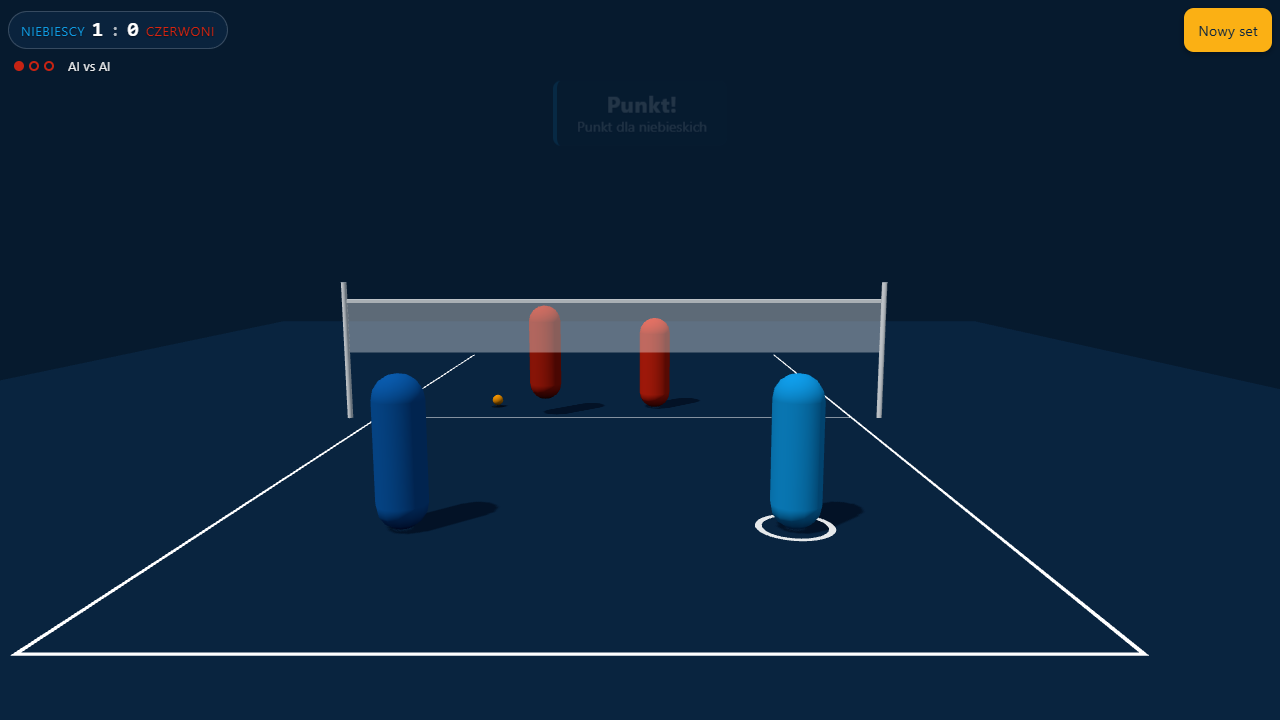
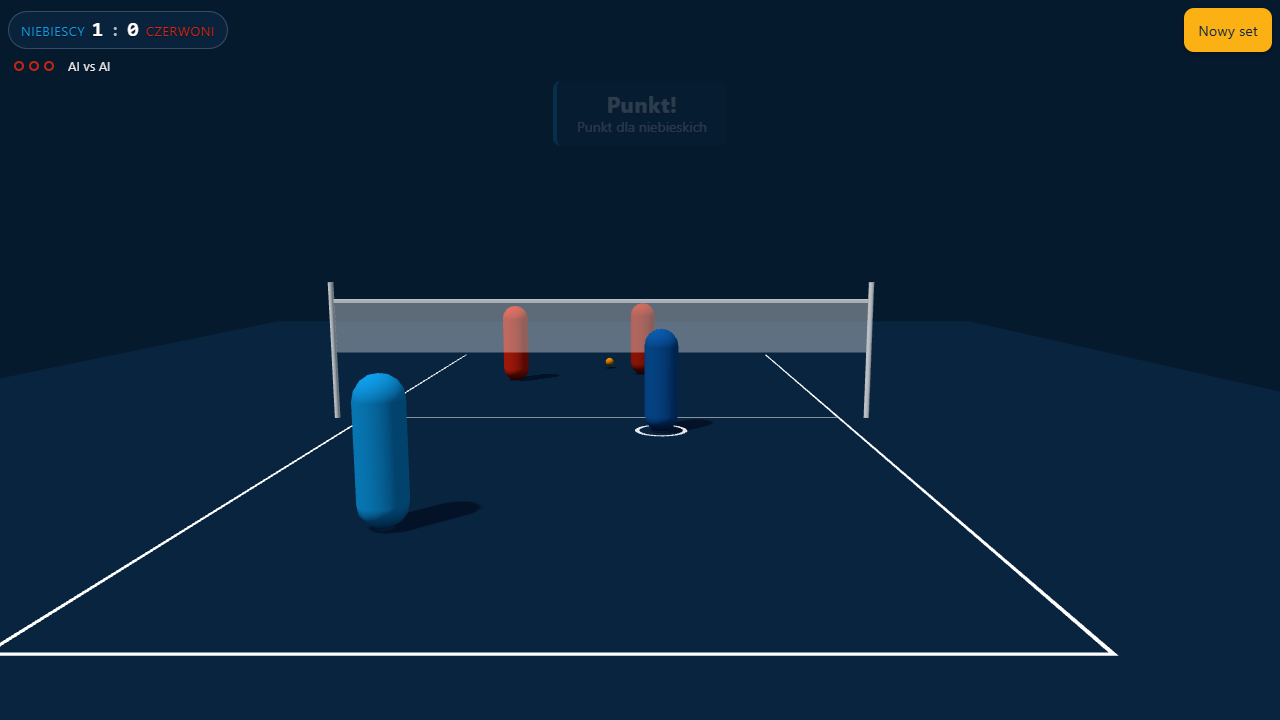
F0: szkic raportu, zrzuty po poprawkach osi x i FOV, bufor klatek 16384 w harnessie

diff --git a/harness/wspolne.ts b/harness/wspolne.ts
@@ -95,7 +95,7 @@ export interface DevHooks {
   /** Żywa referencja, tylko do odczytu. */
   state(): SimStateView;
   newSet(opts?: { seed?: number; servingTeam?: TeamId; humanControl?: boolean }): void;
-  /** Czasy klatek w ms (delta rAF), bufor 4096. */
+  /** Czasy klatek w ms (delta rAF), bufor 16384 (FRAME_TIME_CAPACITY w src/loop/petla.ts). */
   frameTimes(): number[];
   resetFrameTimes(): void;
   renderInfo(): { calls: number; triangles: number; programs: number };
@@ -110,7 +110,7 @@ declare global {
 }
 
 /** Rozmiar bufora czasów klatek w hakach – po jego zapełnieniu pomiar jest ucięty. */
-export const FRAME_BUFFER = 4096;
+export const FRAME_BUFFER = 16384;
 export const TICK_HZ = 120;
 
 // Argumenty CLI --------------------------------------------------------------

diff --git a/harness/perf.ts b/harness/perf.ts
@@ -129,7 +129,7 @@ async function main(): Promise<void> {
       );
     }
     if (bufferFull) {
-      // Bufor w pętli jest pierścieniowy: zostaje ostatnie 4096 klatek, czyli na ekranie
+      // Bufor w pętli jest pierścieniowy: zostaje ostatnie FRAME_BUFFER klatek, czyli na ekranie
       // 144 Hz tylko ~28 s z 60. Liczby są prawdziwe, ale dotyczą końcówki pomiaru.
       const coveredS = frames.reduce((s, t) => s + t, 0) / 1000;
       warnings.push(

diff --git a/docs/RAPORT-F0.md b/docs/RAPORT-F0.md
@@ -1,0 +1,162 @@
+# Raport F0 – szkielet i prototyp uczucia
+
+Gałąź: `f0/prototyp` (nie zmergowana). Data: 2026-09-05. Autor: Claude Code, brama: Dawid.
+
+## 1. Co jest do sprawdzenia na bramie
+
+Prototyp sterowania i kamery w 2 na 2: cztery kapsuły, piłka, siatka, boisko 9 × 18, pełne zasady (3 odbicia, podwójne odbicie, aut wg cienia, set do 7 / przewaga 2 / limit 10), AI Nowicjusz dla partnera i rywali, HUD, przycisk „Nowy set”. Wszystko jako kapsuły i prostokąty, bez modeli, hali, efektów, dźwięku, menu, poziomów, PWA (zgodnie z zakresem F0 w docs/21).
+
+Uruchomienie na telefonie w tej samej sieci Wi-Fi:
+
+```bash
+pnpm install && pnpm dev
+```
+
+Vite wypisze adres `http://<ip-komputera>:5173` – otwórz go na telefonie w pionie. Parametry: `?ai=1` (AI vs AI), `?serwis=1` (serwują czerwoni), `?seed=123`, `?fps=1`.
+
+Pytania z bramy (docs/21): trafiam w piłkę bez frustracji? wiem, gdzie spadnie? przełączanie zawodnika jest zrozumiałe? wystawa do partnera działa intuicyjnie?
+
+## 2. Sterowanie w F0 (interpretacja docs/20 §3.3 – patrz §5 tego raportu)
+
+Telefon, jeden palec:
+
+| Gest | Co robi |
+|---|---|
+| przeciągnięcie (ruch > 12 px w pierwszych 120 ms) | ruch – joystick względem punktu dotknięcia; góra ekranu = w stronę siatki |
+| przytrzymanie w miejscu (≥ 120 ms) | zamach – „ręce w górze”; kontakt następuje, gdy piłka doleci (do 0,8 s); im dłużej trzymasz, tym mocniej (tylko atak) |
+| przesunięcie palca w trakcie trzymania | celowanie – celownik na połowie rywali |
+| tapnięcie (puszczenie przed 120 ms) | szybkie uderzenie z 0,12 s łaski; bez celu przy 1. i 2. odbiciu = wystawa do partnera |
+| drugi palec podczas biegu | zamach (dwa kciuki w poziomie) |
+
+Klawiatura: WASD/strzałki ruch, spacja zamach (trzymaj = siła), strzałki przy spacji = kierunek, N = nowy set.
+
+Sterujesz tym z pary, do którego leci piłka (pierścień pod stopami, „Sterujesz: Ty/Partner” w HUD). Pierścień bursztynowy = przewidywane lądowanie piłki.
+
+## 3. Pomiary
+
+### 3.1 Wydajność (harness `pnpm harness:perf`, 60 s AI vs AI, 390 × 844 @3×, CPU throttling 4×, Chromium headed)
+
+| Miara | Wynik | Próg (CLAUDE.md) |
+|---|---|---|
+| fps p95 | 172,4 (czas klatki p50 5,70 ms, p95 5,80 ms, p99 5,90 ms) | ≥ 55 – PASS |
+| Draw calls na klatkę | 17 | ≤ 60 – PASS |
+| Trójkąty na klatkę | 2 376 | ≤ 120 000 – PASS |
+| Programy shaderów | 5 | – |
+| Sim | 7201 ticków w 60,1 s (oczekiwane 7210) – nadążał | – |
+| Kanwa | 780 × 1688 px (dpr 3 → pixelRatio przycięty do 2) | – |
+| Bundle JS gzip | 146,1 kB (562 kB min) | ≤ 350 kB – PASS |
+| Assety glTF | 0 B | ≤ 4 MB – PASS |
+
+Uwaga: to pomiar na komputerze z GPU NVIDIA RTX 4060 (przez ANGLE/D3D11) z throttlingiem CPU ×4. Mówi tylko, że CPU (sim 120 Hz + predykcja toru co tick + AI) nadąża z zapasem – nie jest pomiarem GPU Androida klasy średniej. Ten trzeba zrobić na telefonie (`?ai=1&fps=1` pokazuje licznik fps w HUD). Headless Chromium (SwiftShader) dawał ~30 fps i nie nadaje się do budżetu.
+
+### 3.2 Przyjęcie serwisu (harness `pnpm harness:przyjecie`, 50 prób)
+
+Definicja pomiaru (docs/22 §8): rywale serwują; aktywny zawodnik dobiega klawiszami WASD do punktu przyjęcia (miejsce, gdzie opadająca piłka przecina 1,1 m); tap (dotyk) pada w losowym momencie okna [wejście piłki w zasięg − 250 ms, +250 ms]; sukces = kontakt aktywnego (nie bierny) i piłka leci do partnera na naszej połowie.
+
+| Miara | Wynik |
+|---|---|
+| Sukcesy | **17 / 50 (34 %)** przy tapach rozłożonych równomiernie w ±250 ms |
+| Średnia jakość udanych kontaktów | 0,42 |
+| Średnie opóźnienie kontaktu względem wejścia w zasięg | −7 ms |
+| Porażki | 33, wszystkie „passive” (piłka odbiła się od kapsuły, zanim padł skuteczny zamach) |
+
+Histogram opóźnienia tapu względem wejścia piłki w zasięg (prób / udanych):
+
+| Kosz | Prób | Udanych |
+|---|---|---|
+| [−250, −200) ms | 5 | 0 |
+| [−200, −150) ms | 5 | 0 |
+| [−150, −100) ms | 5 | 5 |
+| [−100, −50) ms | 4 | 4 |
+| [−50, 0) ms | 7 | 7 |
+| [0, 50) ms | 1 | 1 |
+| ≥ 50 ms | 0 (tap nie zdążył – piłka wcześniej trafiła w ciało) | – |
+
+Czyli: **każdy tap w oknie od −150 do +50 ms trafia (17/17), skuteczne okno tapu ma ok. 200 ms.** Wcześniejszy tap wygasa (0,12 s łaski) przed dolotem piłki, późniejszy przegrywa z biernym odbiciem od ciała.
+
+Interpretacja: model „przytrzymaj do kontaktu” sprawia, że wcześniejsze naciśnięcie jest bezpieczne (tap daje 0,12 s łaski, przytrzymanie do 0,8 s), a naciśnięcie później niż ok. +50 ms po wejściu w zasięg kończy się biernym odbiciem od ciała – piłka od krawędzi zasięgu (0,95 m) do kapsuły (0,3 m) leci ok. 60 ms. Histogram po koszach 50 ms pokazuje tę granicę. Trzymanie palca (zamiast tapnięcia) rozszerza okno do 0,8 s przed wejściem – harness tego wariantu nie mierzy.
+
+### 3.3 Testy (`pnpm test`)
+
+83 testy w 11 plikach, wszystkie zielone (Vitest, Node, bez DOM):
+
+| Plik | Co sprawdza |
+|---|---|
+| tests/sim/balistyka.test.ts | launchVelocity trafia w cel, predictLanding zgodne z torem co do ticku, solveShot nad siatką, solveArc ±2 cm |
+| tests/sim/determinizm.test.ts | dwa przebiegi z tym samym seedem i komendami → identyczny JSON stanu; nagranie i replay; inny seed → inny stan |
+| tests/sim/zasady.test.ts | 3 odbicia + czwarte = punkt, podwójne odbicie, aut tuż za każdą z 4 linii i w boisku tuż wewnątrz, punktacja 7/2/10, wznowienie po 1,5 s, naprzemienny serwujący |
+| tests/sim/kolizje.test.ts | brak przenikania: piłka nigdy pod podłogą, nigdy w kapsule, po siatce po tej samej stronie, zawodnicy nie przechodzą siatki i nie nachodzą na siebie |
+| tests/sim/aktywny.test.ts | przełączanie aktywnego: histereza (równoodległe → zero przełączeń), dokładnie jedno przy piłce bliżej partnera, ≤ 1 zmiana na 0,5 s, brak przełączeń w trakcie własnej akcji |
+| tests/sim/kontakt.test.ts | okno zamachu, pudło i cooldown, tapnięcie, siła z czasu trzymania, cele przyjęcia/wystawy/ataku, auto-skok, reachWindow |
+| tests/ai/determinizm.test.ts | AI vs AI 60 s, dwa przebiegi → identyczny sim i AI; komendy tylko dla sterowanych |
+| tests/ai/rozgrywka.test.ts | 5 seedów: set kończy się < 6 min, ≥ 60 % punktów z podłogi, ≥ 2 kontakty na wymianę, obie drużyny punktują |
+| tests/ai/partner.test.ts | „nie zabieraj gry”: partner nie zamachuje się, gdy człowiek zdąży; przejmuje, gdy człowiek jest 8 m dalej |
+| tests/ai/serwis.test.ts | AI serwuje po 1,0 s, 20/20 serwisów w boisku rywali |
+| tests/input/gesty.test.ts | klasyfikacja gestu, joystick, klawisze, mapowanie celu (bez DOM) |
+
+Pozostałe kontrole: `pnpm check:granice` (20 plików w sim/ai bez three/DOM/losowości), `pnpm typecheck` (trzy tsconfigi, w tym sim/ai bez lib DOM), `pnpm lint`, `pnpm format:check` – zielone.
+
+### 3.4 AI vs AI (5 seedów, skrypt pomiarowy)
+
+Sety kończą się w 96–216 s czasu gry, 6,1 kontaktu na punkt, 100 % punktów z podłogi (zero błędów four-touches / double-touch / under-net). Siła ataku działa: siła 0,25–0,5 → ~12,4 m/s, 0,5–0,75 → ~14,0 m/s, kontakt na ~2,9 m. Zaobserwowana asymetria: czerwoni wygrali 4 z 5 setów przy identycznym profilu – sprawdzone w przeglądzie (§6).
+
+## 4. Zrzuty (docs/zrzuty/)
+
+| Plik | Scena |
+|---|---|
+| f0-390x844-serwis.png | gracz z piłką przed serwisem, HUD z podpowiedzią |
+| f0-390x844-wymiana.png | wymiana AI vs AI po przyjęciu |
+| f0-390x844-punkt.png | toast po punkcie |
+| f0-1280x720-serwis.png / -wymiana.png / -punkt.png | to samo w poziomie |
+
+## 5. Gdzie koncepcja była niedoprecyzowana i co przyjąłem
+
+To najważniejsza część raportu (docs/21 „Zasady dla każdej fazy”). Pełna lista z liczbami: docs/22-ARCHITEKTURA-F0.md §9. Najważniejsze decyzje:
+
+1. **Model uderzenia „przytrzymaj do kontaktu”.** Koncepcja mówi „dotknięcie – timing względem piłki” i „czas trzymania = siła”, ale nie mówi, czy uderzenie pada przy dotknięciu, czy przy puszczeniu, ani jak jeden palec ma jednocześnie ciągnąć (ruch) i dotykać (uderzenie). Przyjęte: naciśnięcie = ręce w górze (okno do 0,8 s), kontakt gdy piłka wejdzie w zasięg, tap = 0,12 s łaski, siła z czasu trzymania do kontaktu, zły timing = pudło z blokadą 0,3 s albo bierne odbicie od ciała. Jakość timingu z położenia piłki w chwili kontaktu; szum celu 2,2 m × (1 − jakość).
+2. **Rozróżnienie gestów po 120 ms / 12 px**: ruch palca to joystick, bezruch to zamach, puszczenie przed 120 ms to tap. Drugi palec podczas biegu = zamach. „Kierunek przeciągnięcia trzymanego w chwili dotknięcia” zinterpretowane jako przesunięcie palca w trakcie trzymania zamachu (celowanie), nie kierunek biegu.
+3. **Przełączanie aktywnego tylko przed pierwszym odbiciem po naszej stronie** (serwis i atak rywali) + ratunek, gdy aktywny nie zdąży. Literalna reguła „bliżej lądowania” odbierałaby graczowi atak: po przyjęciu piłka leci do partnera-rozgrywającego i sterowanie skakałoby na niego.
+4. **Oś x**: prawo ekranu = −x świata (układ prawoskrętny Three.js, kamera patrzy w +z). Mapowanie w `aim.ts` i `gesty.ts`; render nic nie odbija (odbicie zepsułoby w F3 tekst na banerach i znak na koszulkach). Gracz stoi po prawej, partner po lewej.
+5. **Punkt lądowania vs punkt przyjęcia.** Przy płaskim torze piłka na wysokości bioder jest 1–3 m przed punktem lądowania; kto stanie na pierścieniu, dostaje piłkę przy kolanach na ~40 ms. Sim liczy oba punkty; pierścień pokazuje lądowanie (jak w koncepcji), AI i harness dobiegają do punktu przyjęcia. **Pytanie na bramę:** czy pierścień ma pokazywać, gdzie piłka spadnie, czy gdzie stanąć.
+6. **Serwis lob/strzał z siły**: siła < 0,5 = wysoki łuk (jak serwis dzieci; piłka opada stromo, pierścień = miejsce przyjęcia), siła ≥ 0,5 = płaski strzał 10,5–16 m/s. Bez tego serwis Nowicjusza był zawsze płaski. Serwis gracza bez paska timingu (jakość 1) – pasek to F1.
+7. **Auto-skok z gałęzią predykcyjną** (skok wtedy, gdy w apogeum piłka będzie w zasięgu) – literalna reguła „piłka wyżej niż zasięg → skok” dawała kontakt na 2,6 m i atak zawsze lobem, niezależnie od siły.
+8. **Bierny kontakt z kapsułą liczy się jako odbicie** ze wszystkimi zasadami (podwójne odbicie!). Po własnym uderzeniu 0,3 s immunitetu.
+9. **Pas siatki 10 m (słupki)**; przejście poniżej krawędzi poza pasem = błąd `under-net`.
+10. **Serwujący nie rusza się przed serwisem; naprzemienny serwujący w drużynie.**
+11. **Miejsca**: rozgrywający 2,2 m od siatki, atak 1,1 m, apogea łuków 3,4 / 3,0 m nad kontaktem, prędkości ataku 9–19 m/s.
+12. **Kamera**: FOV 72° w portrecie (przy 62° partner 4,5 m obok wypadał z kadru na 390 px), 48° w poziomie, `lookAt` na 1,1 m.
+13. **Cel „między rywalami”** = środek odcinka między rywalami, przycięty do boiska z marginesem 0,4 m i min. 2,0 m od siatki.
+14. **Tłumienie liniowe 0,1 1/s z dokładnym całkowaniem** – predykcja toru bit w bit zgodna z krokiem sim.
+15. **Profil Nowicjusz**: reakcja 0,25 s, błąd pozycji 0,6 m, prędkość 3,6 m/s, szum celu 1,0 m, siła serwisu 0,2–0,6, ataku 0,3–0,7 – wartości startowe do strojenia w F1.
+16. **Toolchain**: TypeScript 7 (natywny `tsc`) i TypeScript 6 obok pod nazwą `typescript` dla typescript-eslint (oficjalny przepis z bloga TS 7.0) – bez tego ESLint nie startuje.
+
+## 6. Przegląd adwersarialny
+
+WYNIK_PRZEGLADU
+
+## 7. Znane ograniczenia i propozycje na F0b / F1
+
+- **Portret: partner często poza kadrem.** Przy FOV 72° pole widzenia na wysokości naszych zawodników (9 m od kamery) ma ~6 m szerokości, a para stoi 4,5 m od siebie; kamera śledzi 0,6·gracz + 0,4·piłka (docs/20 §4.1), więc przy przyjęciu partner-rozgrywający jest za krawędzią (na f0-390x844-wymiana.png widać tylko jego cień). Wystawa do partnera to tap bez celu, więc gra jest możliwa, ale kciuk nie widzi, gdzie leci piłka. Opcje na F0b: FOV 80° w portrecie, kamera 2 m dalej za linią (z = −17) albo śledzenie środka pary z piłką. W poziomie (1280 × 720) cała para i większość boiska są w kadrze.
+- Pomiar fps na prawdziwym Androidzie klasy średniej – nie wykonany (brak urządzenia w harnessie).
+- Zawodnik AI „tańczy” pod piłką: co 0,25 s nowy odczyt z błędem ±0,6 m zmienia cel. Zgodne ze spec, ale nerwowe na ekranie – do strojenia w F1 (malejący błąd przy zbliżaniu piłki).
+- AI zamachuje się na górnej granicy zasięgu, więc przyjęcia mają jakość ~0,3 i duży szum – działa (rozgrywający dobiega), ale w F1 warto opóźnić zamach do pasma wysokości.
+- `state.events` trzyma zdarzenia tylko z ostatniego kroku sim, a pętla robi kilka kroków na klatkę – render zabezpieczył się przez `lastContact.tick`; w F3 (dźwięk, cząstki) pętla powinna akumulować zdarzenia z klatki.
+- Wystawa z apogeum 3,0 m NAD kontaktem (2,9 m) daje piłkę na ~6 m i strome opadanie – rozważyć apogeum bezwzględne (~4,5 m).
+- Celownik na dalekiej połowie w portrecie ma ~23 px – czytelny, ale mały; w F1 skalować znaczniki z odległością.
+- Piłka ma dwa cienie: płaskie koło (pomoc dla gracza) i cień z mapy – jeśli myli, wyłączyć `castShadow` piłki.
+
+## 8. Jak powtórzyć pomiary
+
+```bash
+pnpm harness:perf --sekundy 60
+```
+
+```bash
+pnpm harness:przyjecie --proby 50
+```
+
+```bash
+pnpm harness:zrzuty
+```
+
+Wyniki JSON trafiają do `harness/wyniki/` (ignorowane przez git).
